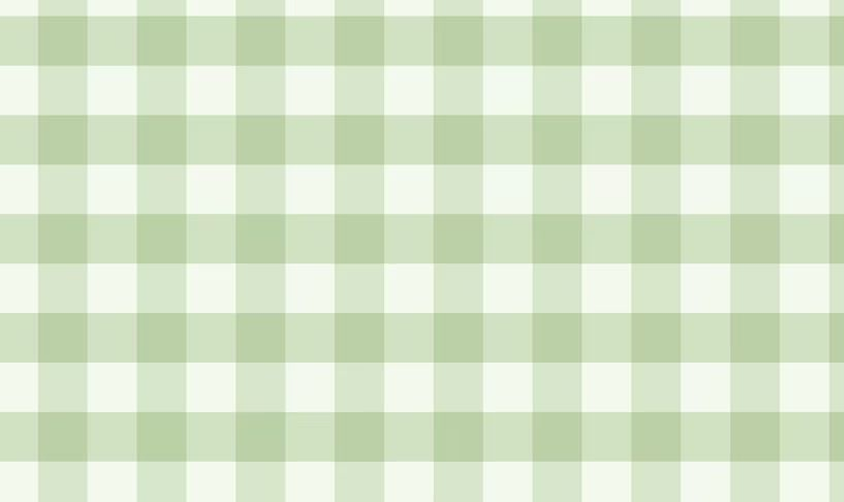
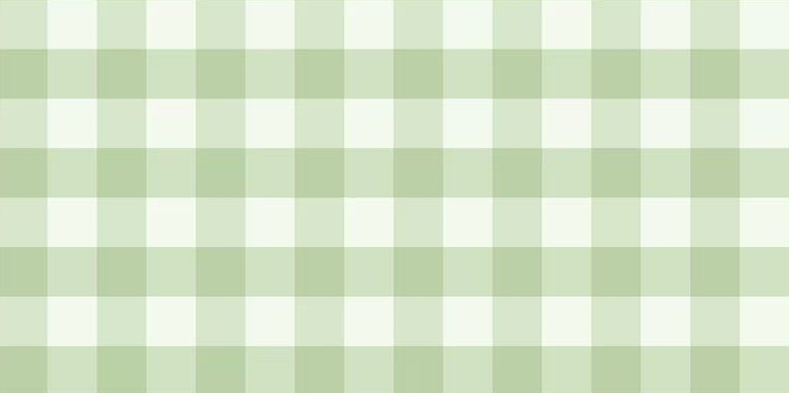
tela carregando

diff --git a/css/loading.css b/css/loading.css
@@ -1,0 +1,19 @@
+body {
+    margin: 0;
+    padding: 0;
+
+    background-image: url("/img/xadVerde.png");
+
+    display: flex;
+    justify-content: center;
+    align-items: center;
+    height: 100vh;
+}
+
+#container {
+    background-color: white;
+    width: 85vw;
+    height: 80vh;
+
+    border-radius: 1.5rem;
+}
